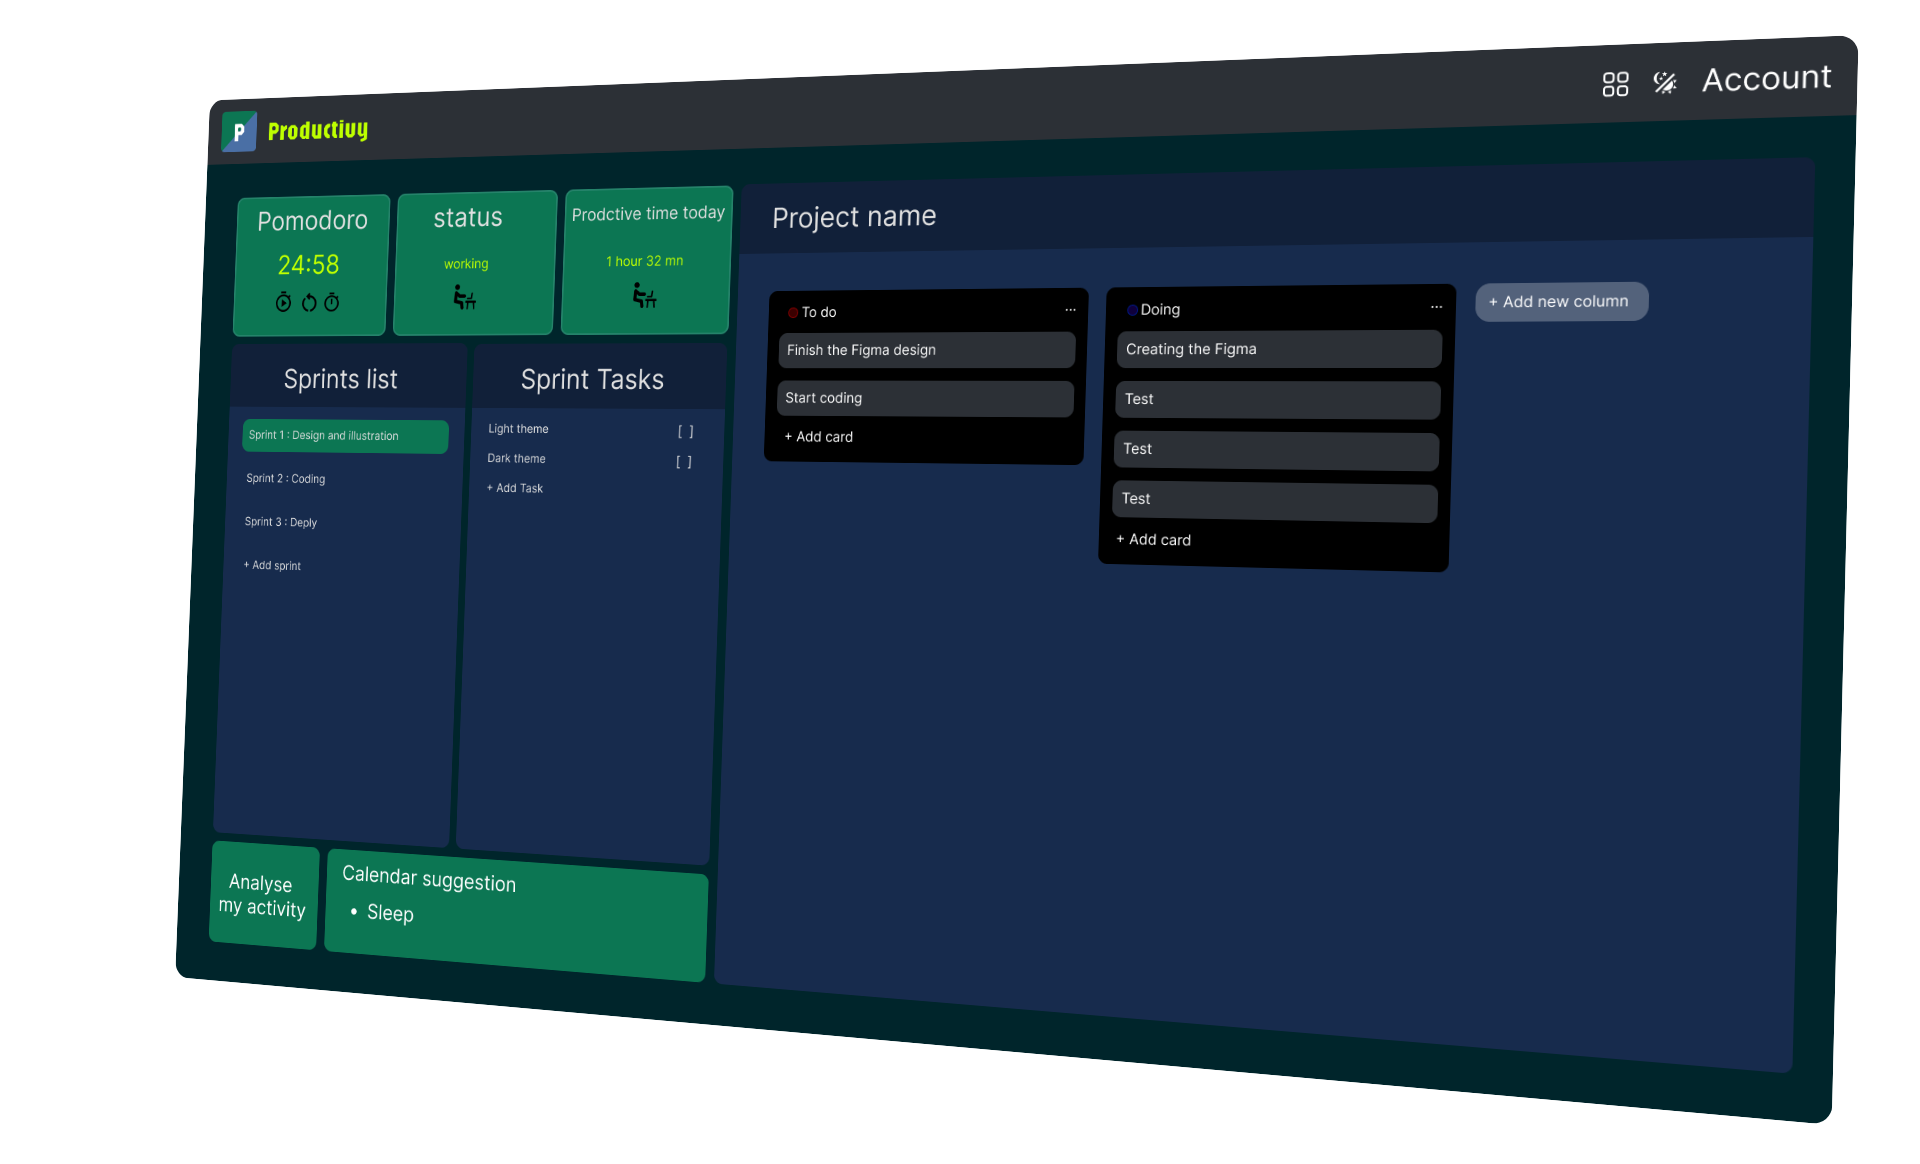
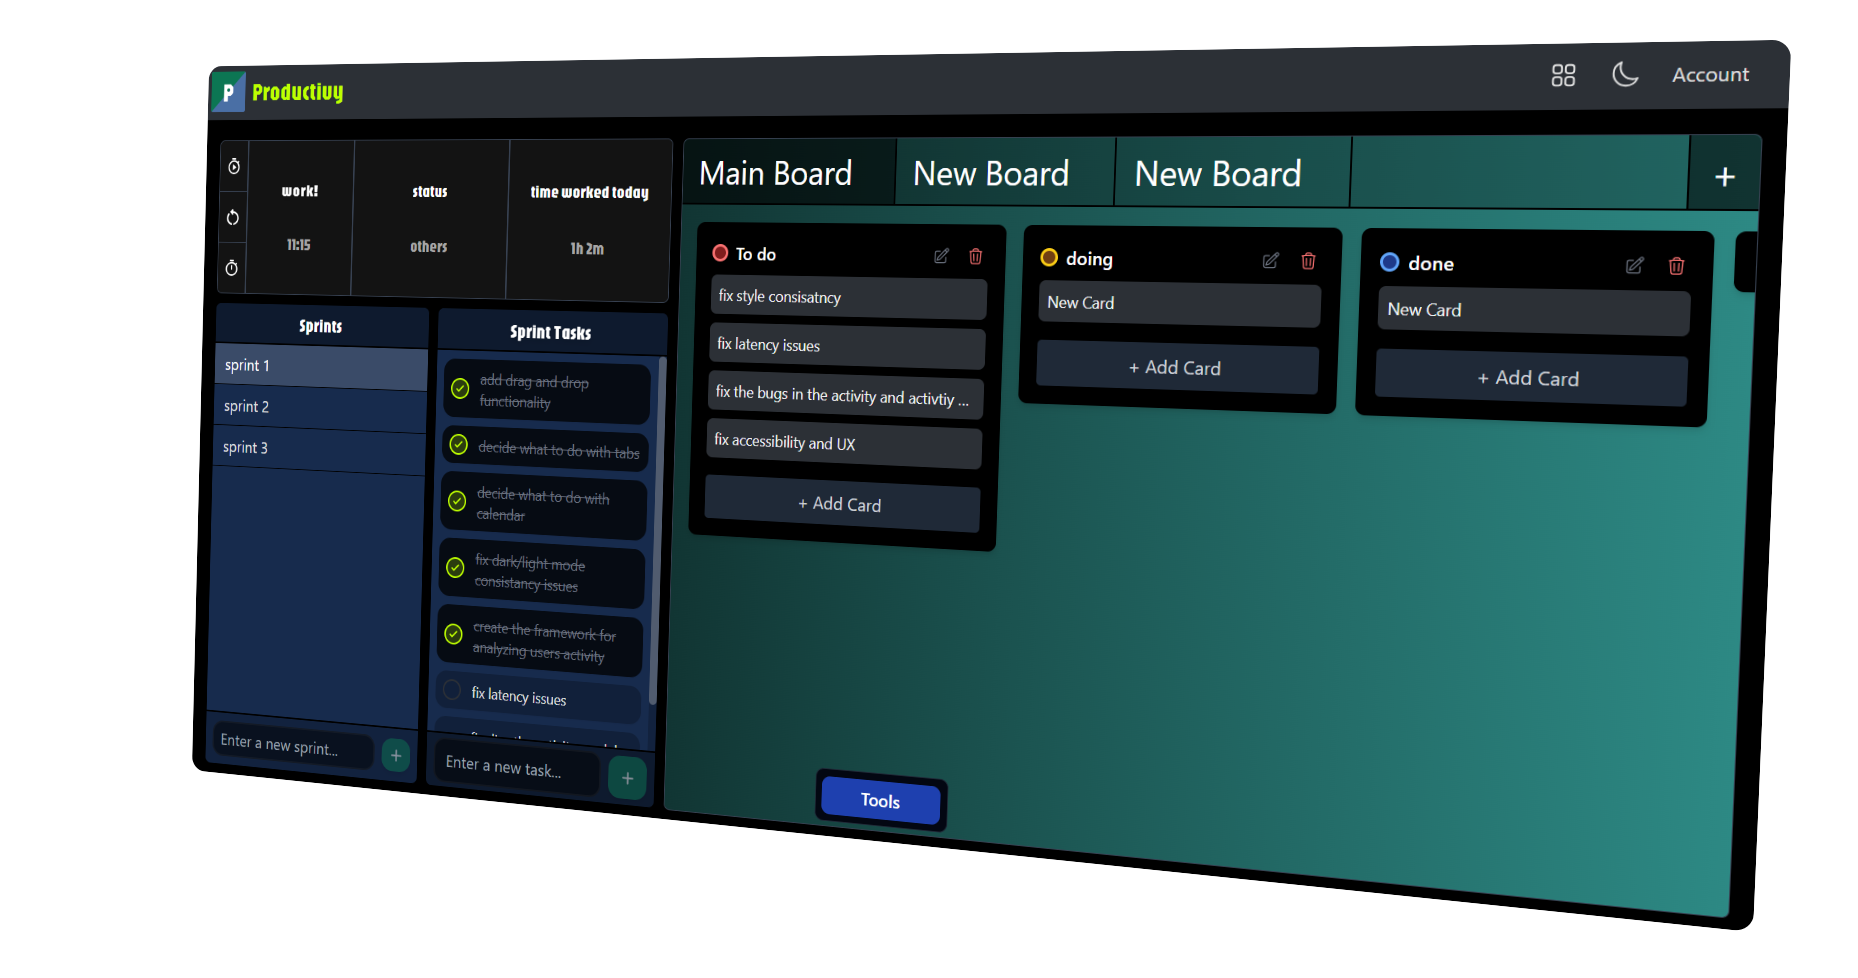
boards titles style

diff --git a/client/src/components/project/Board.jsx b/client/src/components/project/Board.jsx
@@ -246,11 +246,72 @@ const Board = ({ projectId }) => {
     );
   }
 
+const BoardActionsDropdown = ({ currentBoard, onAddBoard, onDeleteBoard, boards }) => {
+  const [isOpen, setIsOpen] = useState(false);
+  const dropdownRef = useRef(null);
+
+  useEffect(() => {
+    const handleClickOutside = (e) => {
+      if (dropdownRef.current && !dropdownRef.current.contains(e.target)) {
+        setIsOpen(false);
+      }
+    };
+    document.addEventListener("mousedown", handleClickOutside);
+    return () => document.removeEventListener("mousedown", handleClickOutside);
+  }, []);
+
   return (
-    <div className="bg-gradient-to-r from-[#2E837F] to-[#40C1BB] dark:from-[#113533] dark:to-[#2D8984] rounded-md flex-1 overflow-hidden w-full h-[622px] flex flex-col border border-gray-300 dark:border-gray-700">
+    <div className="relative flex-shrink-0" ref={dropdownRef}>
+      <button
+        onClick={() => setIsOpen((prev) => !prev)}
+        className="bg-black bg-opacity-50 text-white hover:bg-opacity-25 transition-colors px-3 flex items-center h-full"
+        title="Board actions"
+      >
+        <svg
+          className={`w-4 h-4 transition-transform ${isOpen ? "rotate-180" : ""}`}
+          fill="none"
+          stroke="currentColor"
+          viewBox="0 0 24 24"
+        >
+          <path strokeLinecap="round" strokeLinejoin="round" strokeWidth="2" d="M19 9l-7 7-7-7" />
+        </svg>
+      </button>
+
+      {isOpen && (
+        <div className="absolute right-0 mt-2 w-48 bg-white dark:bg-gray-800 rounded-md shadow-lg z-30 border border-gray-200 dark:border-gray-700 overflow-hidden transition-all duration-200 ease-out transform opacity-100 scale-100 origin-top-right">
+          <button
+            onClick={() => { onAddBoard(); setIsOpen(false); }}
+            className="flex items-center w-full px-4 py-3 text-sm text-gray-700 dark:text-gray-200 hover:bg-blue-50 dark:hover:bg-blue-900/20 transition-colors duration-150 ease-in-out"
+          >
+            <svg className="w-4 h-4 mr-2" fill="none" stroke="currentColor" viewBox="0 0 24 24" xmlns="http://www.w3.org/2000/svg">
+              <path strokeLinecap="round" strokeLinejoin="round" strokeWidth={2} d="M12 6v6m0 0v6m0-6h6m-6 0H6" />
+            </svg>
+            Add Board
+          </button>
+          {currentBoard && boards.length > 1 && (
+            <button
+              onClick={() => { onDeleteBoard(currentBoard._id); setIsOpen(false); }}
+              className="flex items-center w-full px-4 py-3 text-sm text-red-600 dark:text-red-400 hover:bg-red-50 dark:hover:bg-red-900/20 transition-colors duration-150 ease-in-out border-t border-gray-100 dark:border-gray-700"
+            >
+              <svg className="w-4 h-4 mr-2" fill="none" stroke="currentColor" viewBox="0 0 24 24" xmlns="http://www.w3.org/2000/svg">
+                <path strokeLinecap="round" strokeLinejoin="round" strokeWidth={2} d="M19 7l-.867 12.142A2 2 0 0116.138 21H7.862a2 2 0 01-1.995-1.858L5 7m5 4v6m4-6v6m1-10V4a1 1 0 00-1-1h-4a1 1 0 00-1 1v3M4 7h16" />
+              </svg>
+              Delete Current Board
+            </button>
+          )}
+        </div>
+      )}
+    </div>
+  );
+};
+
+
+
+  return (
+    <div className="bg-gradient-to-r from-[#2E837F] to-[#40C1BB] dark:from-[#113533] dark:to-[#2D8984] rounded-md flex-1 overflow-hidden w-full h-[622px] flex flex-col">
       
       {/* Header Tabs */}
-      <div className="bg-black bg-opacity-25 min-h-[60px] font-normal text-3xl text-white flex items-stretch rounded-t-md border-b-2 border-black border-solid">
+      <div className="bg-black bg-opacity-25 min-h-[50px] font-normal text-3xl text-white flex items-stretch rounded-t-md">
         <div
           ref={boardsContainerRef}
           className="flex overflow-x-auto flex-grow scrollbar-thin scrollbar-thumb-gray-500 dark:scrollbar-thumb-gray-700"
@@ -260,13 +321,18 @@ const Board = ({ projectId }) => {
             return (
               <div
                 key={board._id}
-                className={`group flex items-stretch flex-shrink-0 px-2 transition-colors min-h-full border-r-2 border-black border-solid ${
-                  isActive ? "bg-black/50 dark:bg-black/50" : "hover:bg-black/20 dark:hover:bg-white/10"
+                className={`group flex items-stretch flex-shrink-0 px-2 transition-colors min-h-full ${
+                  isActive
+                    ? "bg-black/50 dark:bg-black/50"
+                    : "hover:bg-black/20 dark:hover:bg-white/10"
                 }`}
               >
                 {editingBoard === board._id ? (
                   <div className="relative flex items-center">
-                    <span ref={measureRef} className="absolute -z-10 top-0 left-0 px-2 py-1 text-3xl font-normal whitespace-pre opacity-0 pointer-events-none"/>
+                    <span
+                      ref={measureRef}
+                      className="absolute -z-10 top-0 left-0 px-2 py-1 font-semibold text-lg whitespace-pre opacity-0 pointer-events-none"
+                    />
                     <input
                       ref={inputRef}
                       type="text"
@@ -281,7 +347,7 @@ const Board = ({ projectId }) => {
                       }}
                       onBlur={() => handleEditBoard(board._id)}
                       autoFocus
-                      className="bg-transparent text-white border-none outline-none h-full px-2 py-1"
+                      className="bg-transparent text-white border-none outline-none px-2 py-1 font-semibold text-lg"
                       style={{ minWidth: 24 }}
                       onClick={(e) => e.stopPropagation()}
                     />
@@ -293,25 +359,10 @@ const Board = ({ projectId }) => {
                       setEditingBoard(board._id);
                       setEditBoardTitle(board.title);
                     }}
-                    className="h-full flex items-center px-2 text-white"
+                    className="h-full flex items-center px-2"
                     title="Double-click to rename"
                   >
-                    <span className="truncate">{board.title}</span>
-                  </button>
-                )}
-
-                {editingBoard !== board._id && boards.length > 1 && (
-                  <button
-                    onClick={(e) => {
-                      e.stopPropagation();
-                      setDeleteConfirm(board._id);
-                    }}
-                    className="opacity-0 group-hover:opacity-100 text-red-500 hover:text-red-700 p-1 transition-opacity duration-200 flex items-center"
-                    title="Delete board"
-                  >
-                    <svg className="w-4 h-4" fill="none" stroke="currentColor" viewBox="0 0 24 24">
-                      <path strokeLinecap="round" strokeLinejoin="round" strokeWidth="2" d="M19 7l-.867 12.142A2 2 0 0116.138 21H7.862a2 2 0 01-1.995-1.858L5 7m5 4v6m4-6v6m1-10V4a1 1 0 00-1-1h-4a1 1 0 00-1 1v3M4 7h16"/>
-                    </svg>
+                    <span className="truncate font-semibold text-lg">{board.title}</span>
                   </button>
                 )}
               </div>
@@ -319,14 +370,15 @@ const Board = ({ projectId }) => {
           })}
         </div>
 
-        <button
-          className="bg-black bg-opacity-50 text-white hover:bg-opacity-25 transition-colors flex-shrink-0 px-4 flex items-center border-l-2 border-black border-solid"
-          onClick={handleAddBoard}
-          title="Add board"
-        >
-          +
-        </button>
+        {/* Board Actions Dropdown */}
+        <BoardActionsDropdown
+          currentBoard={currentBoard}
+          onAddBoard={handleAddBoard}
+          onDeleteBoard={(boardId) => setDeleteConfirm(boardId)}
+          boards={boards}
+        />
       </div>
+
 
       <DragDropContext onDragEnd={handleDragEnd}>
         <Droppable droppableId="board" direction="horizontal" type="COLUMN">

diff --git a/client/src/components/project/Column.jsx b/client/src/components/project/Column.jsx
@@ -37,7 +37,7 @@ const Column = ({ projectId, boardId, column, onColumnsUpdate, onError }) => {
     setIsAddingLoading(true);
     try {
       const defaultTitle = "New Card";
-      const defaultDescription = "Enter details here...";
+      const defaultDescription = "";
       const newCards = await addCard(projectId, boardId, column._id, defaultTitle, defaultDescription);
 
       onColumnsUpdate(prevCols =>
@@ -188,7 +188,7 @@ const Column = ({ projectId, boardId, column, onColumnsUpdate, onError }) => {
       {/* Delete Column Modal */}
       {deleteConfirm && (
         <div className="fixed inset-0 bg-black/60 flex items-center justify-center z-50 backdrop-blur-sm">
-          <div className="bg-background-light dark:bg-background-dark border-2 border-secondary-dark dark:border-accent p-6 rounded-xl shadow-2xl flex flex-col gap-4 w-full max-w-md mx-4">
+          <div className="bg-background-light dark:bg-black border-2 border-secondary-dark dark:border-accent p-6 rounded-xl shadow-2xl flex flex-col gap-4 w-full max-w-md mx-4">
             <h2 className="text-2xl font-jaro font-bold text-center text-secondary-dark dark:text-accent">Delete Column</h2>
             <p className="text-text-light dark:text-text-dark text-center">
               Are you sure you want to delete this column? This will also delete all cards within it. This action cannot be undone.

diff --git a/client/src/components/project/Card.jsx b/client/src/components/project/Card.jsx
@@ -134,8 +134,8 @@ const Card = ({
           {deleteConfirm && (
             <div className="fixed inset-0 flex items-center justify-center z-50">
               <div className="bg-background-light dark:bg-background-dark border-2 border-red-600 dark:border-red-500 p-6 rounded-xl shadow-2xl w-full max-w-sm animate-fadeScale">
-                <h3 className="text-lg font-bold mb-2 text-red-600 dark:text-red-500">Delete Card</h3>
-                <p className="mb-6 opacity-80">
+                <h3 className="text-lg font-bold mb-2 text-red-600 dark:text-red-500 text-center">Delete Card</h3>
+                <p className="mb-6 opacity-80 dark:text-text-dark">
                   Are you sure you want to delete this card? This action cannot be undone.
                 </p>
                 <div className="flex justify-end gap-3">

diff --git a/client/src/components/common/Modal.jsx b/client/src/components/common/Modal.jsx
@@ -9,7 +9,7 @@ const Modal = ({ isOpen, onClose, title, children }) => {
       onClick={onClose} // close when clicking overlay
     >
       <div
-        className="bg-background-light dark:bg-background-dark
+        className="bg-background-light dark:bg-black
                    border-2 border-secondary-dark dark:border-accent
                    p-6 rounded-xl shadow-2xl flex flex-col gap-5 w-full max-w-md relative mx-4"
         onClick={(e) => e.stopPropagation()} // prevent closing when clicking inside

diff --git a/client/src/components/pages/Home.jsx b/client/src/components/pages/Home.jsx
@@ -50,7 +50,7 @@ function Home() {
               <img
                 src="./heromockup.png"
                 alt="App preview"
-                className="w-full max-w-md rounded-xl transform rotate-y-6 rotate-x-2 transition-transform duration-700 hover:rotate-y-0 hover:rotate-x-0"
+                className="w-full max-w-xlg transition-transform duration-700 hover:rotate-y-0 hover:rotate-x-0"
               />
             </div>
           </div>

diff --git a/client/tailwind.config.js b/client/tailwind.config.js
@@ -19,7 +19,8 @@ export default {
         'primary-dark': 'rgba(23, 43, 77, 1)',
         'secondary-dark': 'rgba(23, 43, 77, 1)',
         'accent': 'rgba(190, 255, 0, 1)',
-        'background-dark': 'rgba(0, 37, 43, 1)',
+        'background-dark': 'rgba(0, 0, 0, 1)',
+        // 'background-dark': 'rgba(0, 37, 43, 1)',
         'text-dark': 'rgba(224, 224, 224, 1)',
         'navbar-dark': 'rgba(44, 48, 54, 1)',
         'accent-dark': '#11576D',

diff --git a/server/models/Project.js b/server/models/Project.js
@@ -15,8 +15,8 @@ const SprintSchema = new mongoose.Schema({
 });
 
 const CardSchema = new mongoose.Schema({
-  title: { type: String, required: true }, // Changed from 'text' to 'title' for consistency
-  description: { type: String }, // Added optional description field
+  title: { type: String}, 
+  description: { type: String }, 
   createdAt: { type: Date, default: Date.now },
 });
 

diff --git a/client/src/components/pages/Project.jsx b/client/src/components/pages/Project.jsx
@@ -15,7 +15,7 @@ const Project = () => {
   const { id } = useParams();
   const [project, setProject] = useState(null);
   const [selectedSprint, setSelectedSprint] = useState(null);
-  const [showTools, setShowTools] = useState(false); // controls visibility
+  const [showTools, setShowTools] = useState(true); 
 
   useEffect(() => {
     const fetchProject = async () => {
